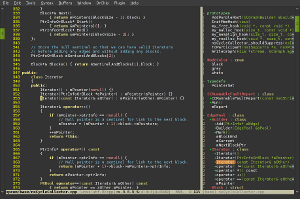
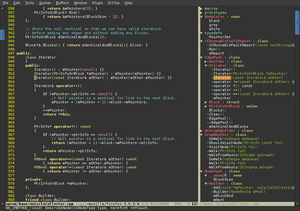
Update website for 2.0

Changed region(s): [[0.0, 0.0, 1.0, 1.0]]

diff --git a/index.html b/index.html
@@ -3,7 +3,7 @@
     <head>
         <meta charset='utf-8'>
 
-        <title>majutsushi/tagbar @ GitHub</title>
+        <title>Tagbar, the Vim class browser</title>
 
         <style type="text/css">
             body {
@@ -35,13 +35,6 @@
 
         <div id="container">
 
-            <div class="download">
-                <a href="http://github.com/majutsushi/tagbar/zipball/master">
-                    <img border="0" width="90" src="http://github.com/images/modules/download/zip.png"></a>
-                <a href="http://github.com/majutsushi/tagbar/tarball/master">
-                    <img border="0" width="90" src="http://github.com/images/modules/download/tar.png"></a>
-            </div>
-
             <h1><a href="http://github.com/majutsushi/tagbar">Tagbar</a>
                 <span class="small">by <a href="http://github.com/majutsushi">Jan Larres</a></span></h1>
 
@@ -70,6 +63,7 @@
             <h2>Screenshots</h2>
             <a href="tagbar1.png"><img src="tagbar1_t.png"/></a>
             <a href="tagbar2.png"><img src="tagbar2_t.png"/></a>
+            <a href="tagbar3.png"><img src="tagbar3_t.png"/></a>
 
             <h2>License</h2>
             <p>Vim license</p>
@@ -82,6 +76,25 @@
 
             <h2>Download</h2>
             <h3>Stable releases</h3>
+
+            <p>2.0 (2011-04-26)
+            <a href="http://github.com/majutsushi/tagbar/zipball/v2.0">zip</a>
+            <a href="http://github.com/majutsushi/tagbar/tarball/v2.0">tar</a>
+            <ul>
+                <li>Folding now works correctly. Folds will be preserved when
+                leaving the Tagbar window and when switching between files.
+                Also tag types can be configured to be folded by default,
+                which is useful for things like includes and imports.</li>
+                <li> DoctorJS/jsctags and other compatible programs are now
+                supported. </li>
+                <li> All of the highlight groups can now be overridden. </li>
+                <li> Added keybinding to quickly jump to next/previous
+                top-level tag. </li>
+                <li> Added Taglist's "p" keybinding for jumping to a tag
+                without leaving the Tagbar window. </li>
+                <li> Several bugfixes and other small improvements. </li>
+            </ul>
+            </p>
 
             <p>1.5 (2011-03-06)
             <a href="http://github.com/majutsushi/tagbar/zipball/v1.5">zip</a>
